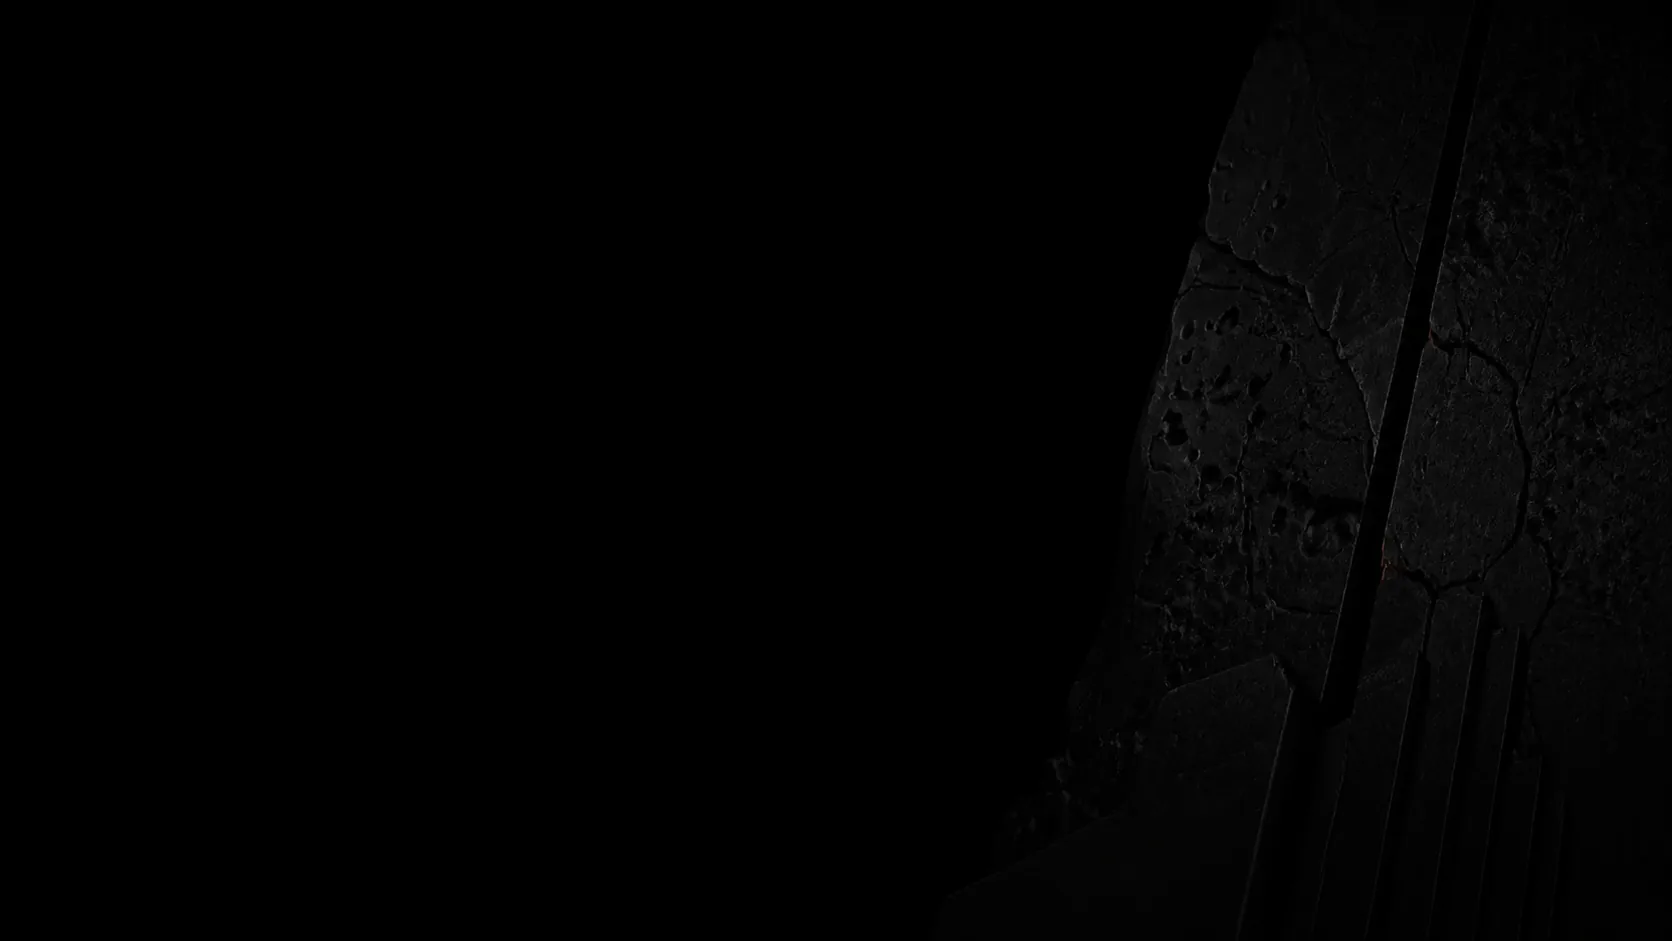
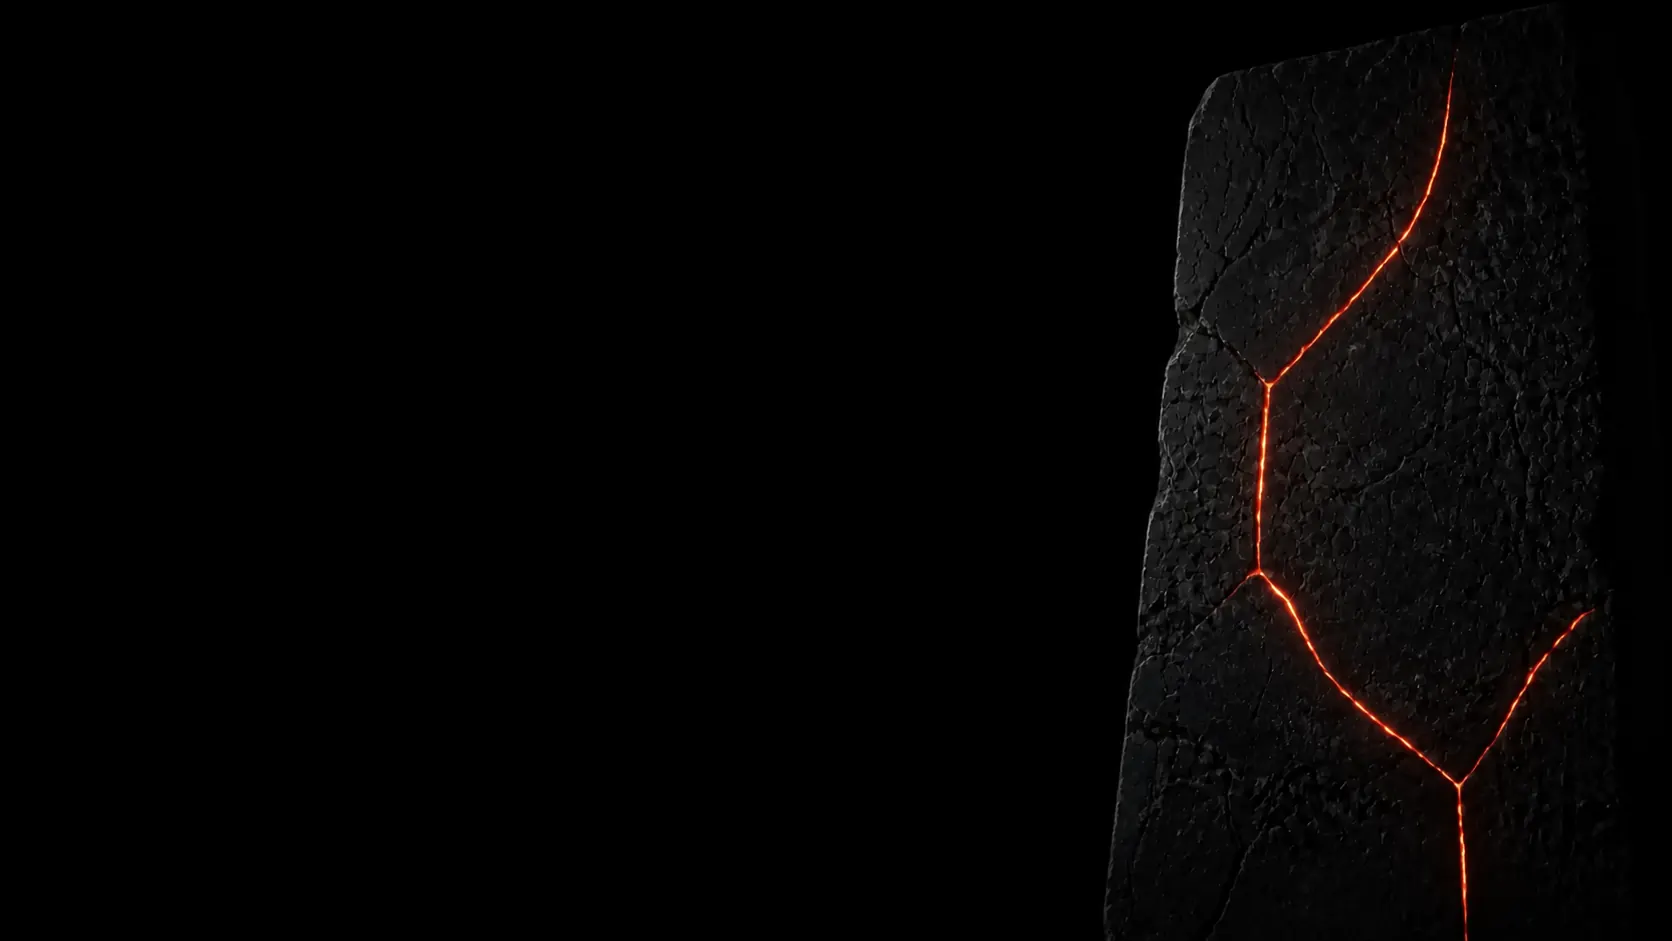
feat(portfolio): reorder projects and refine monolith

diff --git a/src/data/projects.ts b/src/data/projects.ts
@@ -62,18 +62,18 @@ export const projects: Project[] = [
     accent: '#ff6b35',
   },
   {
-    id: 'the-iris',
-    title: 'THE IRIS',
+    id: 'edm',
+    title: 'EDM Music Festival',
     description: {
-      pl: 'Jednokadrowe doświadczenie filmowe, w którym trzy sekwencje tworzą sterowany scrollem mechanizm optyczny.',
-      en: 'A single-shot cinematic experience where three sequences form an optical mechanism controlled by scroll.',
+      pl: 'Kinowy reveal fikcyjnego festiwalu EDM sterowany scrollem, łączący dynamiczne wideo, oprawę muzyczną i interaktywny line-up.',
+      en: 'A cinematic scroll-driven reveal for a fictional EDM festival, combining dynamic video, soundtrack and an interactive lineup.',
     },
-    image: '/iris_mockup.webp',
-    link: 'https://apkmason.dev/iris/',
-    tags: ['Cinematic', 'Video scrubbing', 'GOP1'],
-    category: 'story',
+    image: '/edm_mockup.webp',
+    link: 'https://apkmason.dev/edm/',
+    tags: ['Scroll-driven', 'Music Festival', 'Interactive'],
+    category: 'experiment',
     featured: true,
-    accent: '#a77bff',
+    accent: '#ff0055',
   },
   {
     id: 'pcverse',
@@ -222,45 +222,6 @@ export const projects: Project[] = [
     accent: '#f0b86e',
   },
   {
-    id: 'top-seven',
-    title: 'Top Seven',
-    description: {
-      pl: 'Aplikacja edukacyjna z 147 faktami, fiszkami i interaktywnym słowniczkiem.',
-      en: 'An educational app with 147 facts, flashcards and an interactive glossary.',
-    },
-    image: '/top_seven_mockup.webp',
-    link: 'https://apkmasondev.github.io/topseven/',
-    tags: ['Android', 'Material 3'],
-    category: 'app',
-    accent: '#f1ca4b',
-  },
-  {
-    id: 'recai',
-    title: 'RecAI',
-    description: {
-      pl: 'Prywatny dyktafon z transkrypcją Whisper i automatycznymi podsumowaniami.',
-      en: 'A private voice recorder with Whisper transcription and automatic summaries.',
-    },
-    image: '/recai_mockup.webp',
-    link: 'https://apkmasondev.github.io/recai_landing_page/',
-    tags: ['Android', 'Whisper', 'GPT'],
-    category: 'app',
-    accent: '#e76cff',
-  },
-  {
-    id: 'budget',
-    title: 'Budżet Domowy',
-    description: {
-      pl: 'Błyskawiczna aplikacja desktopowa offline-first do budżetowania metodą zero-based.',
-      en: 'A fast, offline-first desktop app for zero-based budgeting.',
-    },
-    image: '/budzet_mockup.webp',
-    link: 'https://apkmasondev.github.io/budzet_domowy/',
-    tags: ['Tauri', 'Rust', 'SQLite'],
-    category: 'app',
-    accent: '#55d18d',
-  },
-  {
     id: 'arc',
     title: 'APKMASON ARC',
     description: {
@@ -339,17 +300,56 @@ export const projects: Project[] = [
     accent: '#d1a56d',
   },
   {
-    id: 'edm',
-    title: 'EDM Music Festival',
+    id: 'the-iris',
+    title: 'THE IRIS',
     description: {
-      pl: 'Kinowy reveal fikcyjnego festiwalu EDM sterowany scrollem, łączący dynamiczne wideo, oprawę muzyczną i interaktywny line-up.',
-      en: 'A cinematic scroll-driven reveal for a fictional EDM festival, combining dynamic video, soundtrack and an interactive lineup.',
+      pl: 'Jednokadrowe doświadczenie filmowe, w którym trzy sekwencje tworzą sterowany scrollem mechanizm optyczny.',
+      en: 'A single-shot cinematic experience where three sequences form an optical mechanism controlled by scroll.',
     },
-    image: '/edm_mockup.webp',
-    link: 'https://apkmason.dev/edm/',
-    tags: ['Scroll-driven', 'Music Festival', 'Interactive'],
-    category: 'experiment',
-    accent: '#ff0055',
+    image: '/iris_mockup.webp',
+    link: 'https://apkmason.dev/iris/',
+    tags: ['Cinematic', 'Video scrubbing', 'GOP1'],
+    category: 'story',
+    accent: '#a77bff',
+  },
+  {
+    id: 'budget',
+    title: 'Budżet Domowy',
+    description: {
+      pl: 'Błyskawiczna aplikacja desktopowa offline-first do budżetowania metodą zero-based.',
+      en: 'A fast, offline-first desktop app for zero-based budgeting.',
+    },
+    image: '/budzet_mockup.webp',
+    link: 'https://apkmasondev.github.io/budzet_domowy/',
+    tags: ['Tauri', 'Rust', 'SQLite'],
+    category: 'app',
+    accent: '#55d18d',
+  },
+  {
+    id: 'top-seven',
+    title: 'Top Seven',
+    description: {
+      pl: 'Aplikacja edukacyjna z 147 faktami, fiszkami i interaktywnym słowniczkiem.',
+      en: 'An educational app with 147 facts, flashcards and an interactive glossary.',
+    },
+    image: '/top_seven_mockup.webp',
+    link: 'https://apkmasondev.github.io/topseven/',
+    tags: ['Android', 'Material 3'],
+    category: 'app',
+    accent: '#f1ca4b',
+  },
+  {
+    id: 'recai',
+    title: 'RecAI',
+    description: {
+      pl: 'Prywatny dyktafon z transkrypcją Whisper i automatycznymi podsumowaniami.',
+      en: 'A private voice recorder with Whisper transcription and automatic summaries.',
+    },
+    image: '/recai_mockup.webp',
+    link: 'https://apkmasondev.github.io/recai_landing_page/',
+    tags: ['Android', 'Whisper', 'GPT'],
+    category: 'app',
+    accent: '#e76cff',
   },
 ];
 

diff --git a/CHANGELOG.md b/CHANGELOG.md
@@ -8,6 +8,10 @@ stosują [Semantic Versioning](https://semver.org/).
 
 ### Changed
 
+- EDM Music Festival zastąpił THE IRIS wśród wyróżnionych realizacji; końcówkę
+  archiwum uporządkowano jako Budżet Domowy, Top Seven i RecAI,
+- zastąpiono niejednoznaczny ślad monolitu zwartą, asymetryczną bryłą z
+  subtelnymi pomarańczowymi żyłami, lepiej powiązaną z motywem przewodnim,
 - wycofano projekt „Suno AI Music”, przeniesiono projekt „ASCENT — The Human Journey” na nową pozycję oraz dodano nowy projekt „EDM Music Festival” (<https://apkmason.dev/edm/>, kategoria: experiment) wraz z dedykowaną grafiką 3D (edm_mockup.webp),
 - delikatnie zwiększono czytelność materialnych śladów monolitu w notach
   sekcji, zachowując gradientową ochronę kontrastu tekstu,
